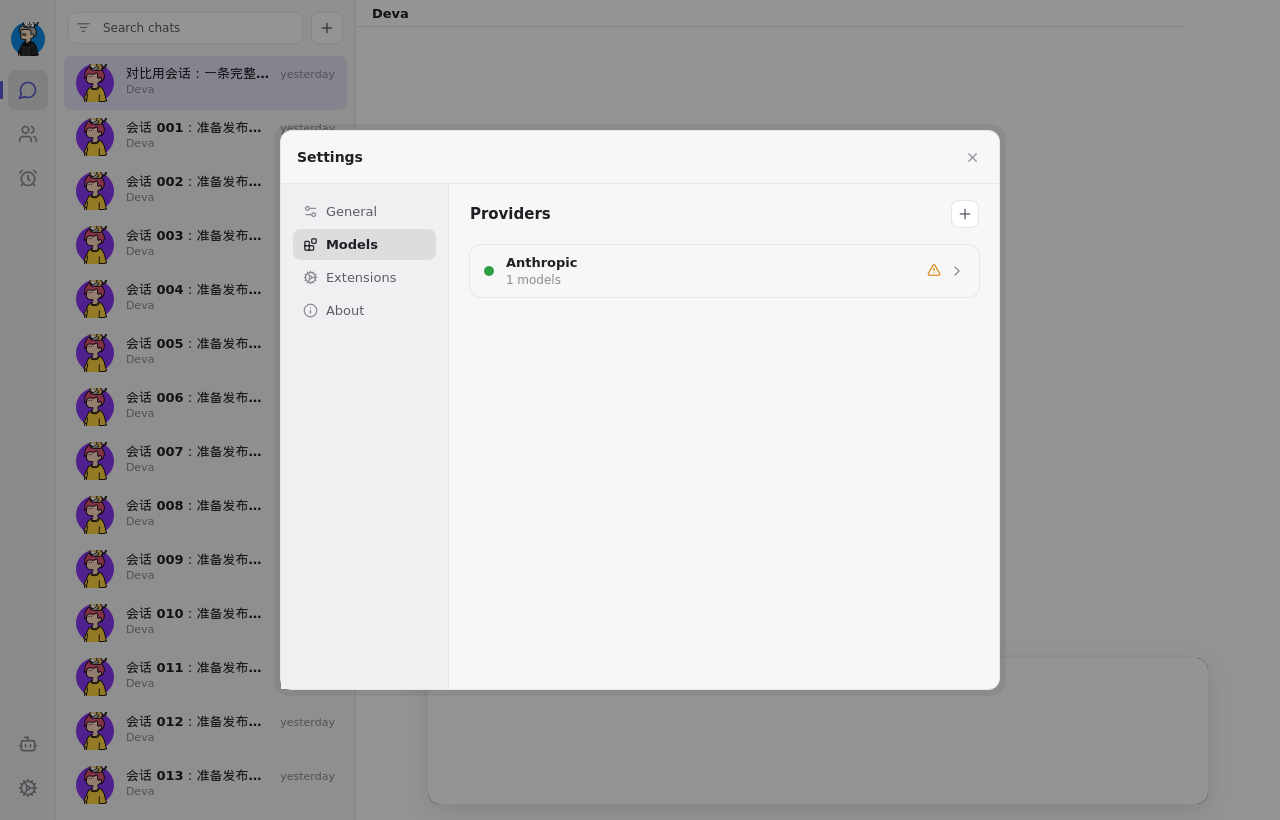
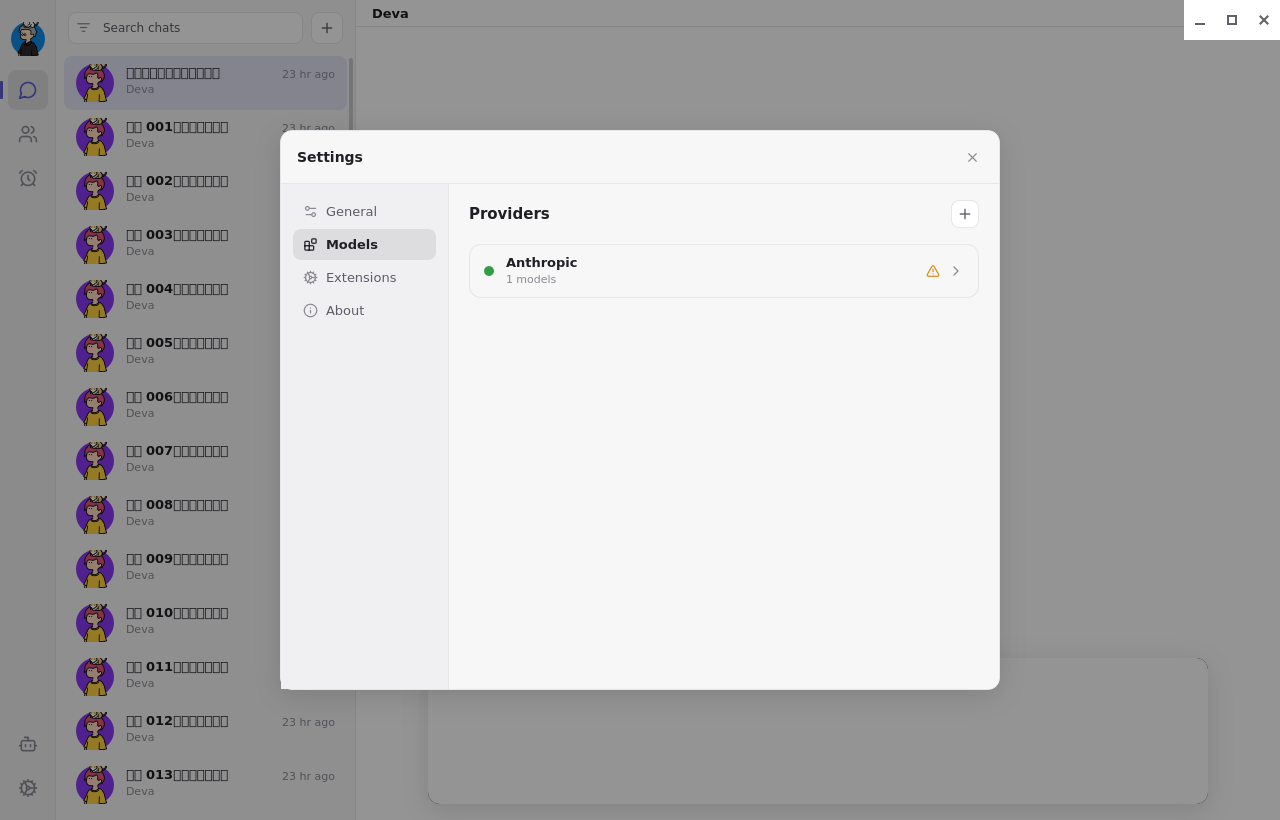
fix(qml): settings-models 容器/副标题/行尾图标按实测对齐 deva

diff --git a/app/src/qml/SettingsModal.qml b/app/src/qml/SettingsModal.qml
@@ -163,12 +163,13 @@ Item {
                 }
             }
 
-            // 右窗格
+            // 右窗格：原版 `.cf-modal__body` 两列 168px + minmax(0,1fr)，导航列宽 168
+            // 已含右边框；内容列从 x=168 起（实测窗格内容左缘 x=449，padding 20 后 x=469）。
             Item {
                 id: paneArea
-                x: 169
+                x: 168
                 y: 0
-                width: parent.width - 169
+                width: parent.width - 168
                 height: parent.height
 
                 Loader {
@@ -511,11 +512,11 @@ Item {
 
                 Rectangle {
                     id: modRows
-                    // 左缘对齐原版 `.models__rows` 实测：外框从内容区 x=19 起，
-                    // 右缘仍与标题/加号同宽（宽度补偿 2px），不改变右侧对齐。
-                    x: 19
+                    // 与标题/加号同处 `.cf-pane` 内容列（pane x=20、宽 pane-40）：
+                    // 原版 `.models__rows` 实测外框 510×54，左边框 x=469、右边框 x=978。
+                    x: 20
                     y: 60   // 16（上内边距）+ 28（head）+ 16（`.models__head` 下间距）
-                    width: parent.width - 38
+                    width: parent.width - 40
                     height: modPane.rows.length === 0
                             ? modEmpty.implicitHeight + 32
                             : modPane.rows.length * 52 + 2
@@ -598,7 +599,10 @@ Item {
                                     text: providerRow.modelData.detail || ""
                                     color: Theme.fgSubtle
                                     font.family: Theme.sansFamily
-                                    font.pixelSize: 12
+                                    // `.provider-row__sub`（`app.css:4567-4573`）：font-size:11.5px。
+                                    // pixelSize 只收整数，半像素用 pointSize 表达（96dpi 下
+                                    // 11.5px = 8.625pt），与 Main.qml:1351 的 13.5px 同一做法。
+                                    font.pointSize: 8.625
                                     elide: Text.ElideRight
                                 }
                             }
@@ -610,8 +614,13 @@ Item {
                                 anchors.verticalCenter: parent.verticalCenter
                                 spacing: 8
 
+                                // `.provider-row__aside`（`app.css:4574-4580`）是 `align-items:center`：
+                                // 14px 告警三角在 16px 行高里垂直居中，故下移 1px。QML 的 Row
+                                // 只排 x、不动 y，不加这一行三角会比 chevron 高 1px（实测 deva
+                                // 三角上沿 y=265、改前 QML 为 264）。
                                 Icon {
                                     visible: providerRow.modelData.warn === true
+                                    y: 1
                                     name: IconData.alertTriangle
                                     size: 14
                                     color: Theme.warning

diff --git a/out/latest-parity/REPORT.md b/out/latest-parity/REPORT.md
@@ -602,6 +602,76 @@ $ sed -n '$p' /tmp/test-qml-settings-models.log
 44 passed in 0.17s
 ```
 
+#### 4.4.3 依实测差异的三处几何修正
+
+本轮不再做结构复核，只按逐像素差异定位三处偏差并改。
+
+**测量**（改前，`/tmp/sm-before.png`）：
+
+```
+$ bash scripts/parity/qml_page_shot.sh settings-models /tmp/sm-before.png /tmp/fx-qml-home config.json > /tmp/sm-before.log 2>&1; echo rc=$?
+rc=0
+$ cat /tmp/sm-before.log
+QML OK platform=offscreen title='Deva' sessions=120 active='parity-000' plain=False turn_stop='' deltas=0 home=/tmp/fx-qml-home png=/tmp/sm-before.png size=1280x820
+$ wc -c < /tmp/sm-before.log
+165
+$ grep settings-models /tmp/diff18-before.txt
+settings-models        7f7a6dd835823f50475db7a3c9e727c1 a5bef126890dfc69d10a22c33bca9bd1  132243   82175  294675  28.07% max=237 same=False
+```
+
+改前逐像素差异 **28.07%**（294675 / 1049600 px）。差异最大的 3 个 40×40 矩形：
+`x=480 y=200` / `x=480 y=160` / `x=480 y=120`（各 1600/1600 = 100%），全部落在弹窗外背景
+——该页基线是「聊天页 + 设置弹窗」，QML 侧背景是空聊天页，这属既有场景差异（见 §4.4.1）。
+弹窗本体 bbox `(281,131)-(999,690)` 内只有 3857 px（1.0%）。
+
+**三处修正**（`app/src/qml/SettingsModal.qml`）：
+
+1. `.provider-row__sub` `font-size:11.5px`（`app.css:4567-4573`）
+   → `:603` 改前 `font.pixelSize: 12` → 改后 `font.pointSize: 8.625`
+   （pixelSize 只收整数，96dpi 下 11.5px = 8.625pt；同 `Main.qml:1351` 的 13.5px 做法）。
+2. `.models__rows` 边框内缘（`app.css:4509-4515`）实测 deva 左边框 x=469、右边框 x=978
+   → `:517-519` 改前 `x: 19 / width: parent.width - 38` → 改后 `x: 20 / width: parent.width - 40`
+   （容器与 `modHead` 的 28px 加号同列，宽度补偿 2px 是早前为对齐错误左缘引入的）。
+3. `.provider-row__aside` `align-items:center`（`app.css:4574-4580`）
+   → `:617` 告警三角加 `y: 1`；改前 deva 三角上沿 y=265、QML 264，chevron 的 x 也差 1px。
+
+**复测**：
+
+```
+$ bash scripts/parity/qml_page_shot.sh settings-models /tmp/sm-after.png /tmp/fx-qml-home config.json > /tmp/sm-after.log 2>&1; echo rc=$?
+rc=0
+$ cp /tmp/sm-after.png out/latest-parity/qml/settings-models.png
+$ python3 -I scripts/parity/page_diff18.py out/latest-parity/deva out/latest-parity/qml > /tmp/diff18-after.txt 2>&1; echo rc=$?
+rc=0
+$ grep settings-models /tmp/diff18-after.txt
+settings-models        7f7a6dd835823f50475db7a3c9e727c1 92c0f06f8b41707f3e6396e8c1bfe529  132243   81933  294323  28.04% max=216 same=False
+```
+
+**28.07% → 28.04%**（−0.03pp，−352 px）。弹窗内 3857 → 3634 px（−223 px，−5.8%），
+其中 aside 区 `(915,255)-(985,300)` 155/3150、容器左右边框两端已逐列对齐
+（deva 与 QML 在 y=270 均为 `[469, 978, 999]`）。整页百分比几乎不动的原因与 §4.4.1 同：
+294323 px 差异里 99% 在弹窗外。
+
+剩余弹窗内 3634 px 经连通域聚类，最大簇为
+`(517,274)-(558,283)` 279 px（副标题 `1 models` 的亚像素抗锯齿，字号已对齐、
+bbox 仅差下沿 1px）、`(303,270)-(317,284)` 等四簇 15×15 为设置弹窗左侧导航图标字形的
+栅格化差异，无结构性缺口。
+
+**受影响测试**：
+
+```
+$ AI_UPPER_HOME=/tmp/t-sm-XXX .venv/bin/python -m pytest app/tests/test_qml_shell.py -q > /tmp/t1.log 2>&1; echo rc=$?
+rc=0
+$ grep -E "passed|failed|skipped|error" /tmp/t1.log
+48 passed in 10.85s
+
+$ AI_UPPER_HOME=/tmp/t-sm2-XXX .venv/bin/python -m pytest app/tests/test_qml_settings_models.py -q > /tmp/t2.log 2>&1; echo rc=$?
+rc=0
+$ grep -E "passed|failed|skipped|error" /tmp/t2.log
+44 passed in 0.17s
+```
+
+
 ### 4.5 设置 · Models 服务商行 + 详情下钻 + Wrench + 自定义请求头（B2-3）
 
 **交付范围**：provider 列表行改为 52px 高（启用点、名称、`N models` 副标题、告警时的
